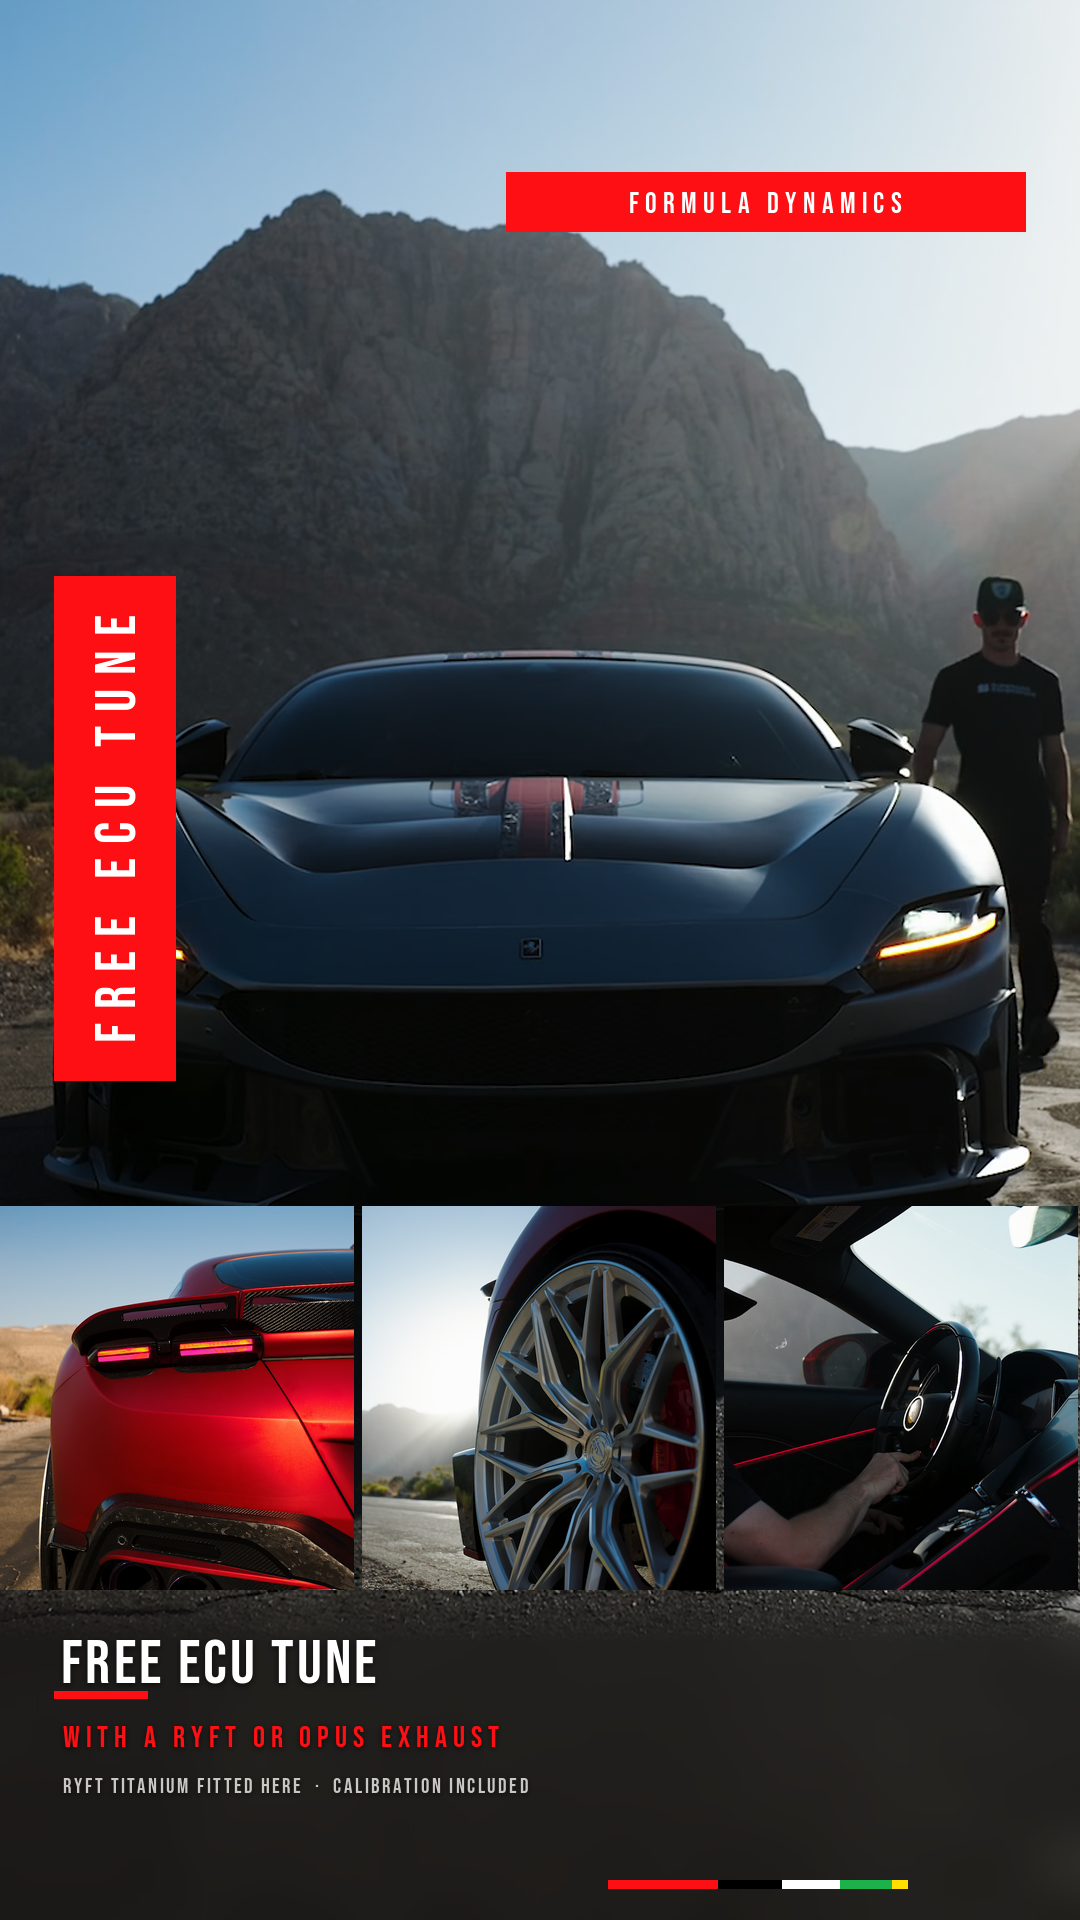
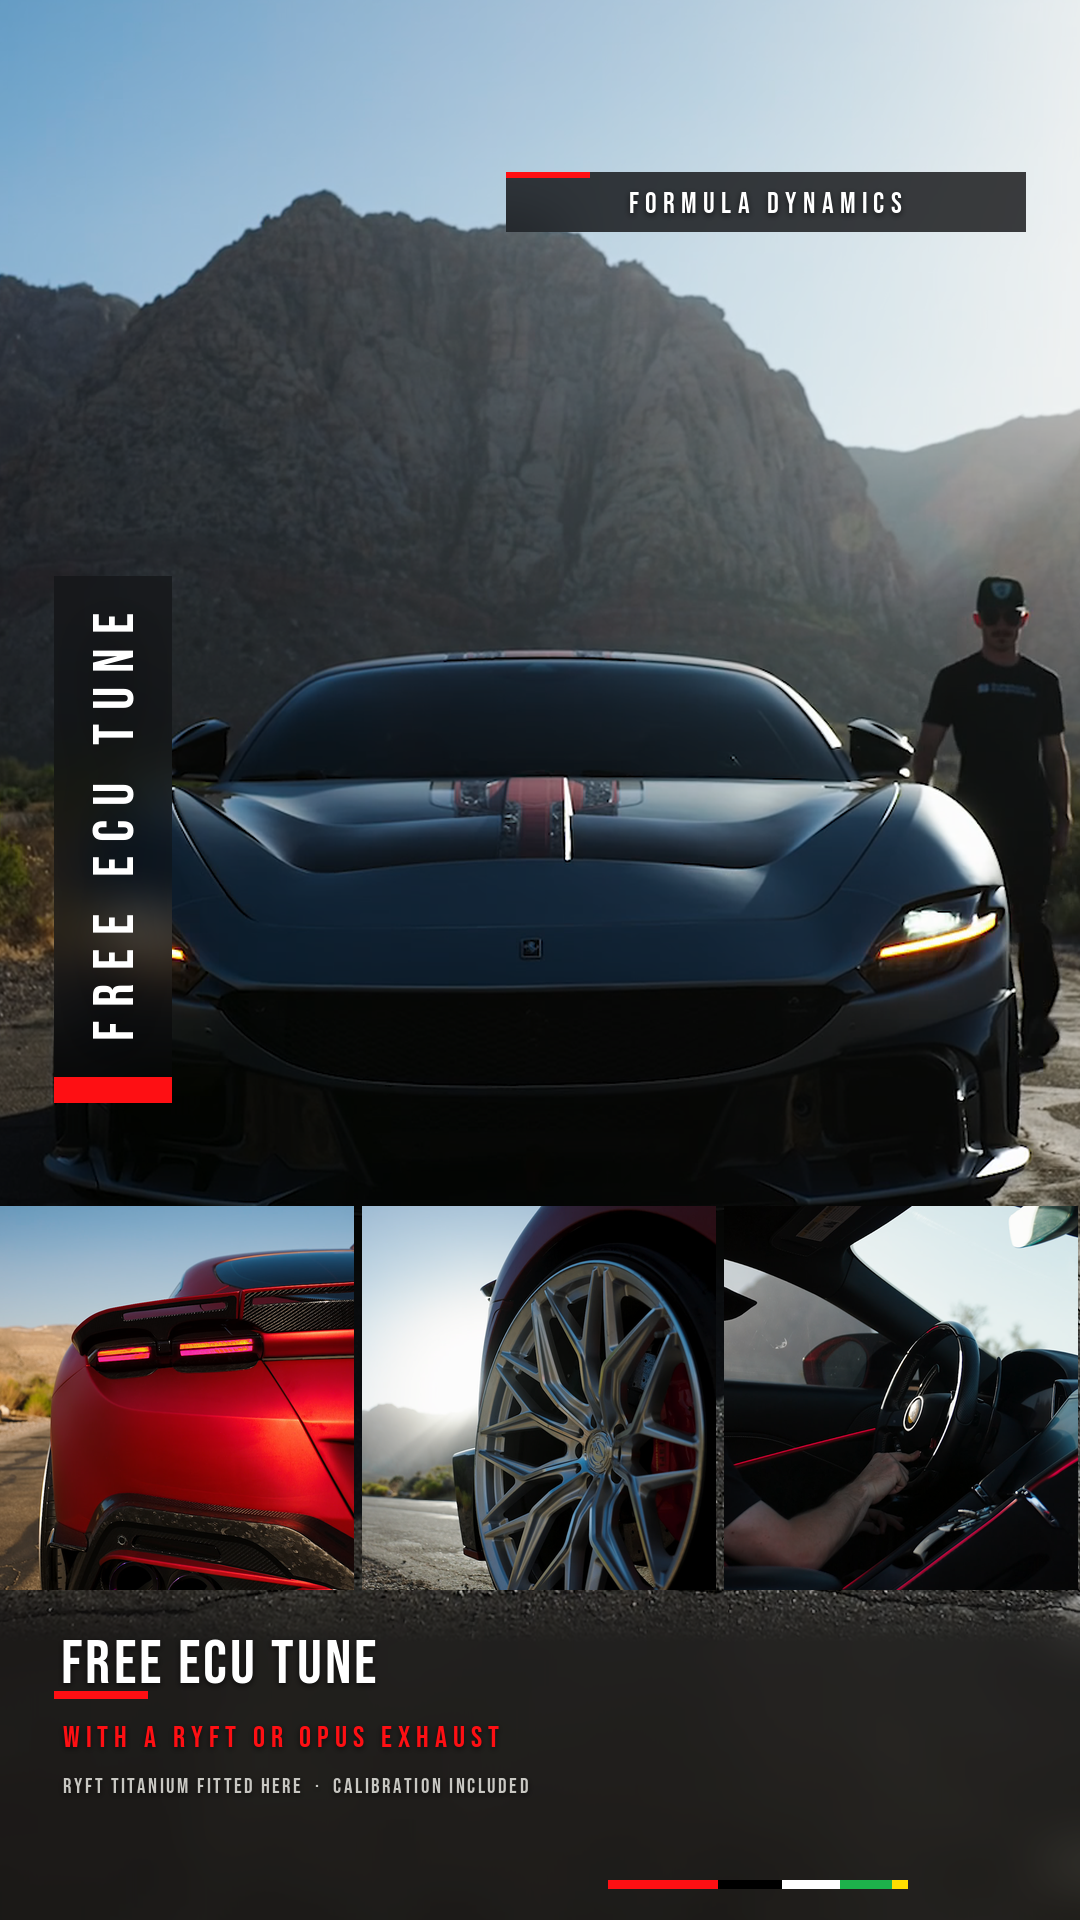
Take the red fill off the poster tab and name bar
Both were solid red with the type reversed out. Flat brand colour laid over a
photograph is the same mistake as a bordered chip - it stops belonging to the
picture. Both are cut out of the picture now, like the caption, with the red
kept as an accent: a foot under the section tab, a tick on the name bar.

The foot gets its own height at the bottom of the bar. Drawn over the type, it
ate the first letter of every label.

Claude-Session: https://claude.ai/code/session_0155AVELr8HM8Wirkuh1Xp1B

Changed region(s): [[0.0306, 0.2812, 0.1833, 0.5938], [0.4583, 0.0625, 0.9472, 0.125]]

diff --git a/formula-dynamics/14-stills/build_stills.py b/formula-dynamics/14-stills/build_stills.py
@@ -56,20 +56,39 @@ def grab(src, t, out):
 
 # ----------------------------------------------------------------- components
 
-def vertical_tab(label):
+def vertical_tab(base, label, x, y):
+    """Section marker up the left edge — glass, not a red block.
+
+    It was a solid red bar with the section reversed out of it. A field of flat
+    brand colour laid over the picture is the same mistake as a bordered chip:
+    it stops being part of the photograph. The bar is now cut out of the
+    picture the same way the caption is, and the red is a short cap at its foot.
+    """
     word = R.text(label, 58, B.WHITE, tracking=0.24)
-    pad = 40
-    bar = Image.new("RGBA", (word.width + pad * 2, word.height + pad * 2),
-                    B.rgb(B.RED) + (255,))
-    R.paste(bar, word, bar.width // 2, bar.height // 2, anchor="cm")
-    return bar.rotate(90, expand=True)
+    pad = 38
+    cap = 26                                      # the red foot, below the type
+    w = word.height + pad * 2                     # bar runs vertically
+    h = word.width + pad * 2 + cap
+
+    bar = frost(base, (x, y, w, h), darken=0.46, feather=0)
+    R.paste(bar, R.with_shadow(word.rotate(90, expand=True)),
+            w // 2, (h - cap) // 2, anchor="cm")
+
+    # the cap gets its own height at the foot, so it can never sit over the
+    # first letter - which is what ate the A of ANNUAL on the first pass
+    d = ImageDraw.Draw(bar)
+    d.rectangle([0, h - cap, w - 1, h - 1], fill=B.rgb(B.RED) + (255,))
+    return bar, (x, y, w, h)
 
 
-def header_bar(label="FORMULA DYNAMICS", width=520, height=60):
-    im = Image.new("RGBA", (width, height), B.rgb(B.RED) + (255,))
-    R.paste(im, R.text(label, 29, B.WHITE, tracking=0.22),
+def header_bar(base, x, y, label="FORMULA DYNAMICS", width=520, height=60):
+    """The shop's name, top right — glass with a red tick, not a red block."""
+    im = frost(base, (x, y, width, height), darken=0.46, feather=0)
+    R.paste(im, R.with_shadow(R.text(label, 29, B.WHITE, tracking=0.22)),
             width // 2, height // 2, anchor="cm")
-    return im
+    d = ImageDraw.Draw(im)
+    d.rectangle([0, 0, int(width * 0.16), 5], fill=B.rgb(B.RED) + (255,))
+    return im, (x, y, width, height)
 
 
 def frost(base, box, darken=0.42, feather=52):
@@ -176,10 +195,14 @@ def poster(name, src, hero_t, hero_y, detail_ts, tab, service, offer, fine):
 
     im = canvas.convert("RGBA")
     im.alpha_composite(caption_plate(canvas, service, offer, fine, plate_h))
-    im.alpha_composite(header_bar(),
-                       (W - 520 - int(W * SAFE["left"]), int(H * 0.09)))
-    t = vertical_tab(tab)
-    im.alpha_composite(t, (int(W * SAFE["left"]), int(H * 0.30)))
+
+    hb, (hx, hy, _, _) = header_bar(
+        canvas, W - 520 - int(W * SAFE["left"]), int(H * 0.09))
+    im.alpha_composite(hb, (hx, hy))
+
+    vt, (vx, vy, _, _) = vertical_tab(
+        canvas, tab, int(W * SAFE["left"]), int(H * 0.30))
+    im.alpha_composite(vt, (vx, vy))
 
     path = OUT / f"{name}.png"
     im.convert("RGB").save(path, quality=95)

diff --git a/formula-dynamics/14-stills/README.md b/formula-dynamics/14-stills/README.md
@@ -45,6 +45,17 @@ needs almost nothing; the same plate over sunlit concrete needs a lot, and one
 fixed number is what left the red offer line unreadable on the windshield
 poster. The tile is sampled and aimed at `TARGET_GLASS`.
 
+## The section tab and the name bar are glass too
+
+Both started as solid red blocks with the type reversed out. A field of flat
+brand colour laid over a photograph is the same mistake as a bordered chip — it
+stops being part of the picture. Both are now cut out of the picture the same
+way the caption is, and the red survives as an accent: a short foot under the
+section tab, a tick at the corner of the name bar.
+
+The foot gets its **own height** at the bottom of the bar rather than being
+drawn over it. Drawn on top, it ate the first letter of every label.
+
 ## The hero is a whole car, and it is sharp
 
 Two separate faults put half a blurred car on the first posters:
